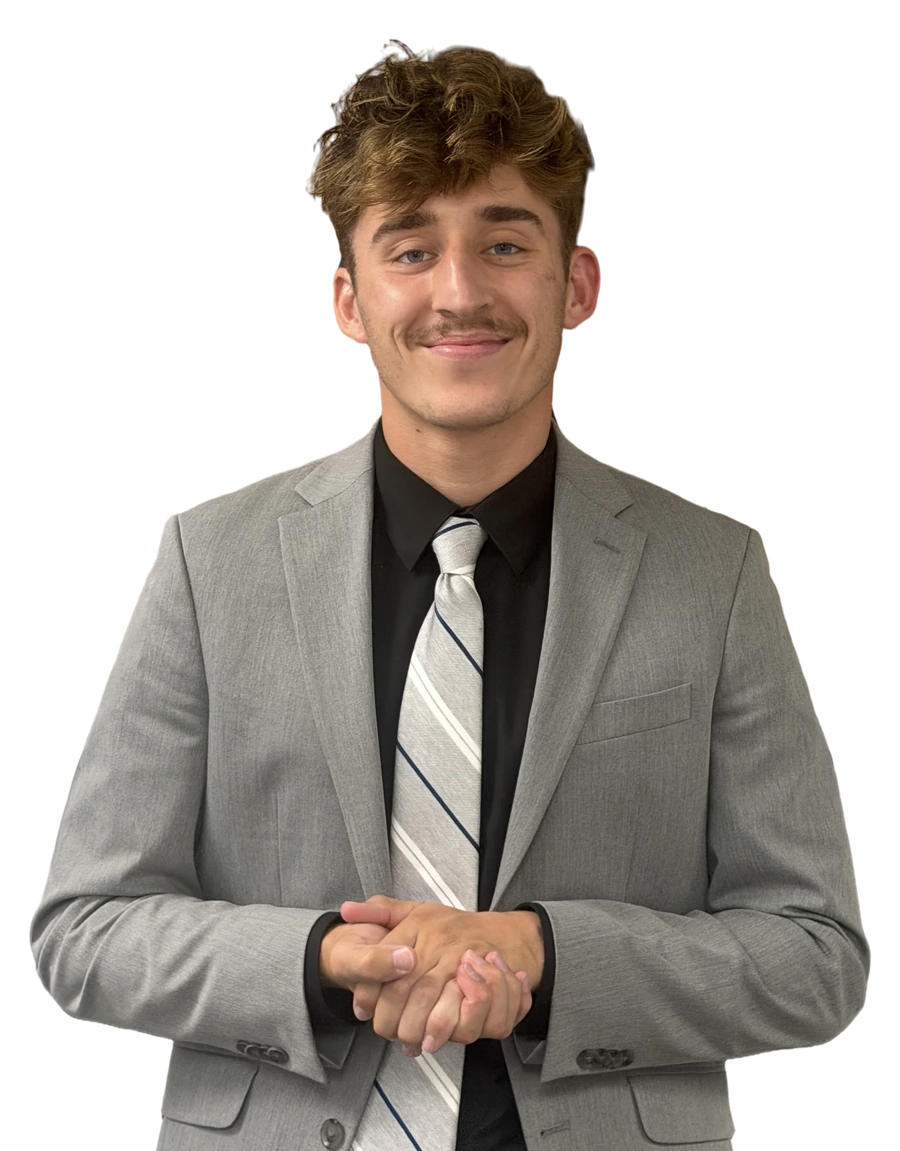
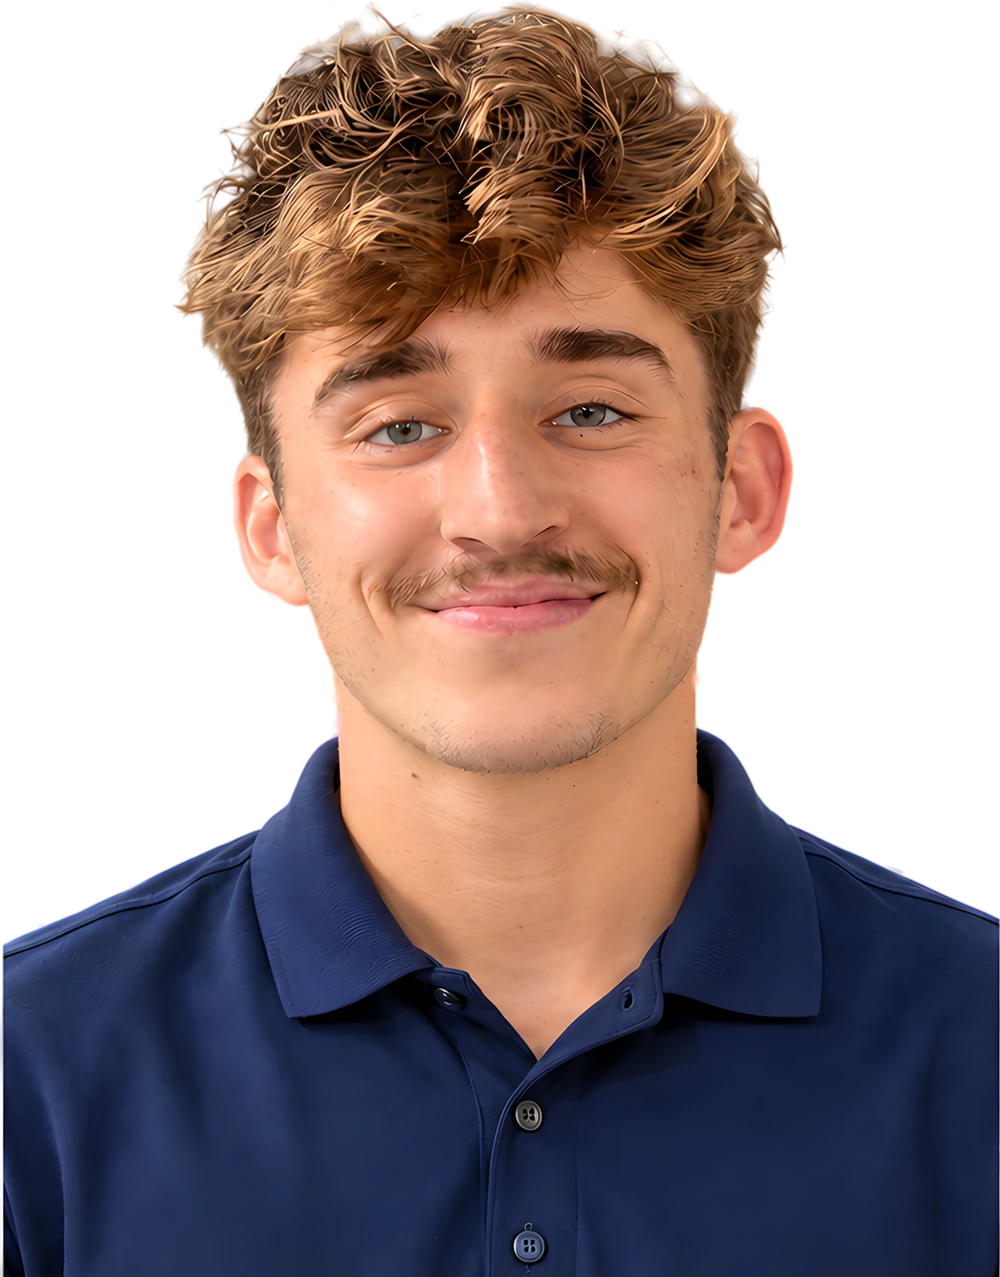
Uniform co-founder headshots (polo shirts) replace the mixed-outfit photos
Upscaled, cut out and resized so all three cards match on Home, About, Contact and the CTA.

Claude-Session: https://claude.ai/code/session_015s5PL8TLBmz3grWm3MhsML

diff --git a/src/three/TeamCards.jsx b/src/three/TeamCards.jsx
@@ -72,9 +72,9 @@ function Photo({ person }) {
   const tex = useTexture(person.photo)
   const ar = tex.image.width / tex.image.height
   const full = person.crop === 'full'
-  const h = full ? 3.75 : 2.4 / ar
-  const w = h * ar
-  const bottom = full ? -1.55 : -1.1
+  const w = full ? 1.5 : 2.05
+  const h = w / ar
+  const bottom = full ? -1.55 : -1.17
   return (
     <mesh position={[0, bottom + h / 2, 0.2]} renderOrder={2}>
       <planeGeometry args={[w, h]} />

diff --git a/src/config/site.js b/src/config/site.js
@@ -148,7 +148,7 @@ export const team = [
   },
   {
     name: 'Jeremy',
-    crop: 'full',
+    crop: 'bust',
     age: 20,
     role: 'Co-Founder',
     focus: 'Friendlier homes, fuller potential',
